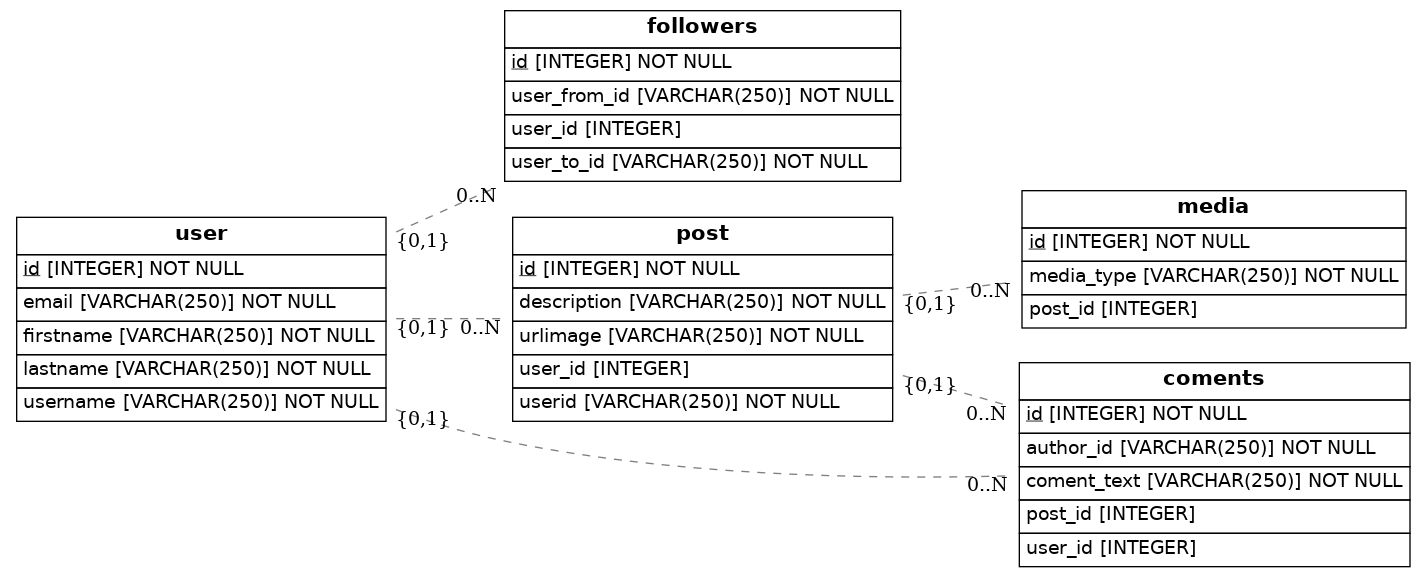
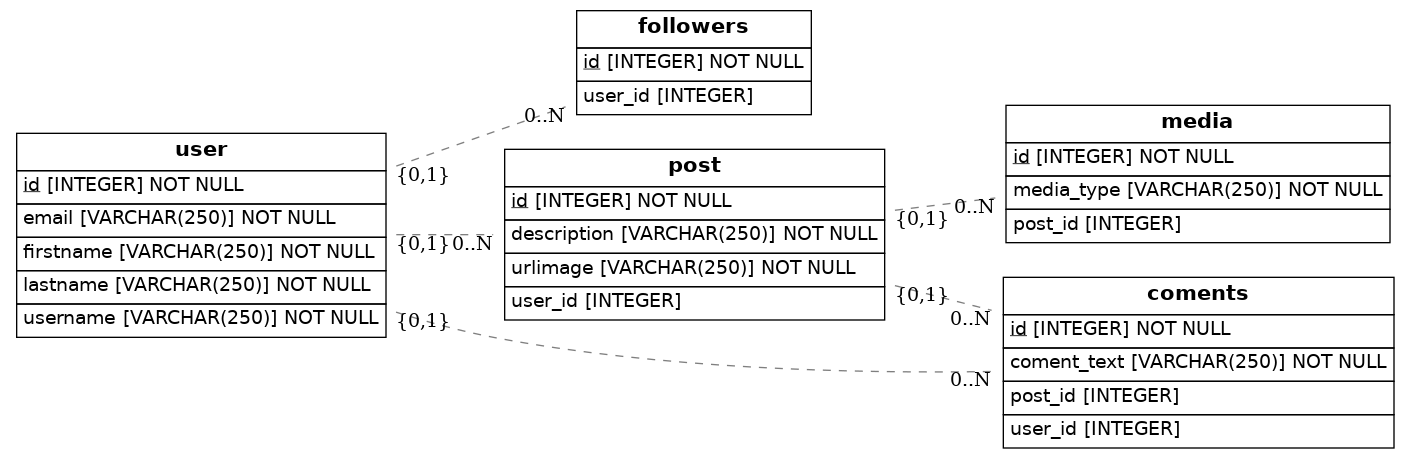
CHANGES

Changed region(s): [[0.0, 0.0, 0.9993, 1.0], [0.4996, 0.793, 0.5621, 0.8235]]

diff --git a/src/models.py b/src/models.py
@@ -23,17 +23,18 @@ class Followers(Base):
     # Here we define columns for the table followers
     # Notice that each column is also a normal Python instance attribute.
     id = Column(Integer, primary_key=True)
-    user_from_id = Column(String(250), nullable=False)
-    user_to_id = Column(String(250), nullable=False)
     user_id = Column(Integer, ForeignKey('user.id'))
     user = relationship(User)
+    user_from_id = Column(Integer, ForeignKey('user_from_id.id'))
+    user_from_id = relationship(user_from_id)
+    user_to_id = Column(Integer, ForeignKey('user_to_id.id'))
+    user_to_id = relationship(user_to_id)
 
 class Post(Base):
     __tablename__ = 'post'
     # Here we define columns for the table post
     # Notice that each column is also a normal Python instance attribute.
     id = Column(Integer, primary_key=True)
-    userid = Column(String(250), nullable=False)
     urlimage = Column(String(250), nullable=False)
     description = Column(String(250), nullable=False)
     user_id = Column(Integer, ForeignKey('user.id'))
@@ -45,8 +46,6 @@ class Coments(Base):
     # Notice that each column is also a normal Python instance attribute.
     id = Column(Integer, primary_key=True)
     coment_text = Column(String(250), nullable=False)
-    author_id = Column(String(250), nullable=False)
-    post_id = Column(String(250), nullable=False)
     user_id = Column(Integer, ForeignKey('user.id'))
     user = relationship(User)
     post_id = Column(Integer, ForeignKey('post.id'))
@@ -58,7 +57,6 @@ class Media(Base):
     # Here we define columns for the table media
     # Notice that each column is also a normal Python instance attribute.
     id = Column(Integer, primary_key=True)
-    post_id = Column(String(250), nullable=False)
     media_type = Column(String(250), nullable=False)
     post_id = Column(Integer, ForeignKey('post.id'))
     post = relationship(Post)
